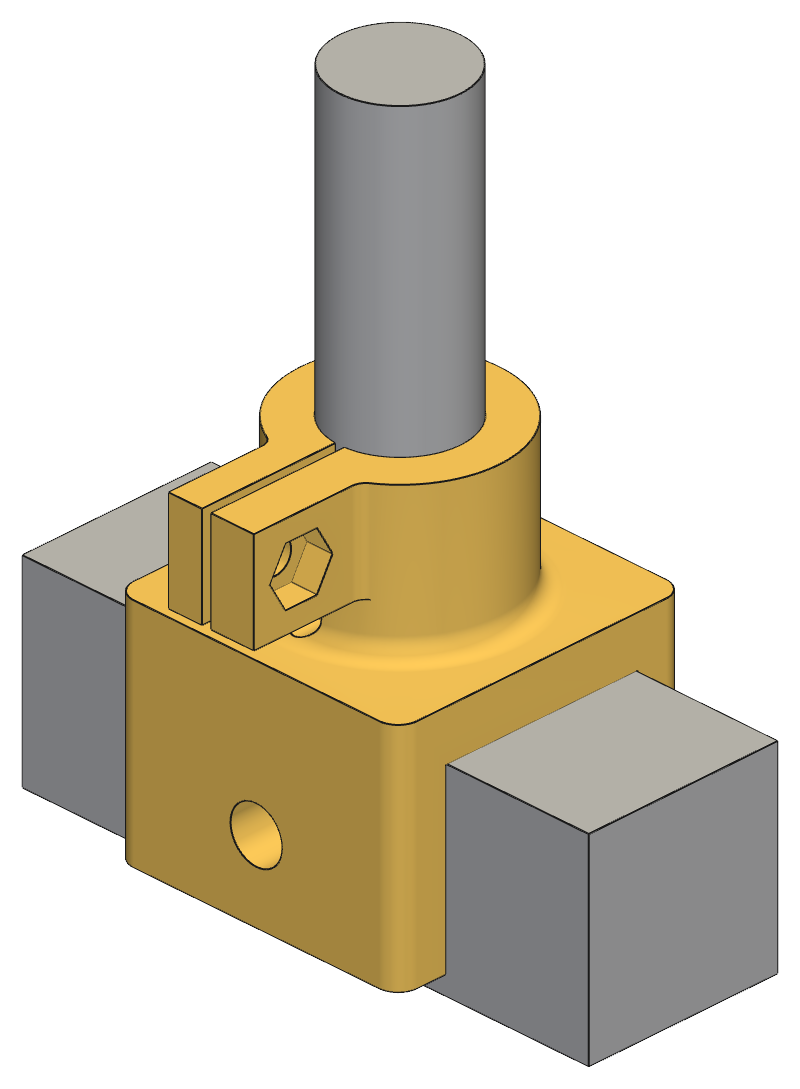
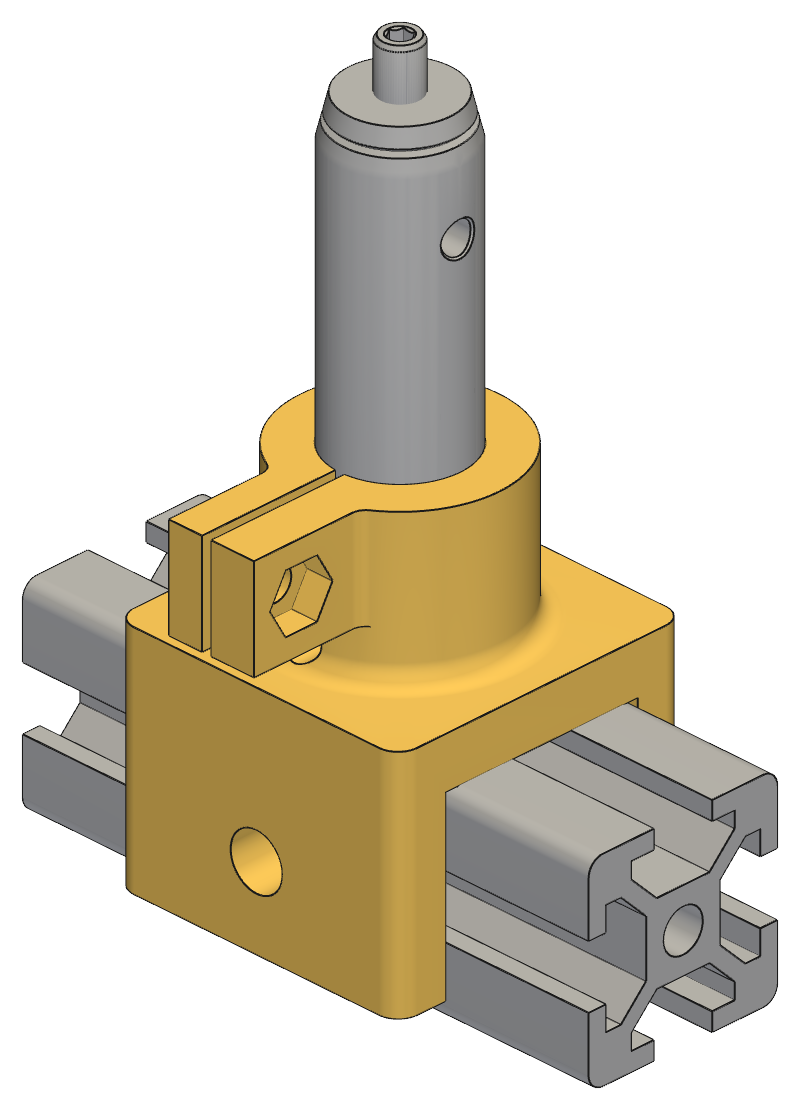
Improve rail shoe render

diff --git a/src/schlieren/parts/rail.py b/src/schlieren/parts/rail.py
@@ -1,0 +1,56 @@
+"""Generic 2020 T-slot rail for viewer assemblies and figures; design §4.1.
+
+Visualization only: the slot is a nominal slot-6 profile, not the measured geometry of the project's
+extrusion (§4.1), so do not take fits or clearances from it.
+
+Rail-assembly frame, as the rail shoe: x across the rail, y along it, z up; the rail top is z=0 and the rail
+is centered on x=y=0.
+"""
+
+from dataclasses import dataclass
+
+from build123d import Circle, Part, Polygon, Pos, Rectangle, Rot, extrude, fillet
+
+
+@dataclass(frozen=True)
+class RailProfile:
+    """Nominal 20-series, slot-6 section. Slot dimensions are measured inward from each outer face."""
+
+    size: float = 20.0
+    corner_radius: float = 1.5
+    slot_mouth_width: float = 6.2
+    lip_thickness: float = 1.8
+    cavity_width: float = 11.0
+    cavity_wall_height: float = 1.6  # Straight cavity wall below the lip, before the 45 degree taper.
+    slot_depth: float = 6.1
+    center_bore_diameter: float = 4.2
+
+    @property
+    def slot_floor_width(self) -> float:
+        taper_height = self.slot_depth - self.lip_thickness - self.cavity_wall_height
+        return self.cavity_width - 2 * taper_height
+
+
+def build_rail(length: float, profile: RailProfile | None = None) -> Part:
+    """A rail segment of the given length along y, top face at z=0."""
+    f = profile or RailProfile()
+    overrun = 1.0
+    face = f.size / 2
+
+    section = Rectangle(f.size, f.size)
+    section = fillet(section.vertices(), f.corner_radius)
+    # One slot, opening toward +y of the section; mirrored about its centerline and repeated on all four faces.
+    half_slot = [
+        (f.slot_mouth_width / 2, face + overrun),
+        (f.slot_mouth_width / 2, face - f.lip_thickness),
+        (f.cavity_width / 2, face - f.lip_thickness),
+        (f.cavity_width / 2, face - f.lip_thickness - f.cavity_wall_height),
+        (f.slot_floor_width / 2, face - f.slot_depth),
+    ]
+    slot = Polygon(*half_slot, *[(-x, y) for x, y in reversed(half_slot)], align=None)
+    for quarter_turn in range(4):
+        section -= Rot(Z=90 * quarter_turn) * slot
+    section -= Circle(f.center_bore_diameter / 2)
+
+    rail = extrude(section, amount=length / 2, both=True)
+    return Pos(0, 0, -face) * Rot(X=90) * rail

diff --git a/src/schlieren/parts/rail_shoe.py b/src/schlieren/parts/rail_shoe.py
@@ -24,6 +24,8 @@ from build123d import (
 )
 
 from schlieren.cad import FROM_CORNER, ON_FLOOR, along_x, along_y, assembly, labeled
+from schlieren.parts.rail import build_rail
+from schlieren.vendor_cad import thorlabs_tr50_m
 
 
 @dataclass(frozen=True)
@@ -145,6 +147,7 @@ class RailShoeParameters:
 
 SHOE_COLOR = (0.8, 0.65, 0.3)
 REFERENCE_COLOR = (0.6, 0.6, 0.6)
+VIEWER_RAIL_OVERHANG = 15.0  # Rail shown beyond each end of the shoe.
 
 
 def build_rail_shoe(p: RailShoeParameters | None = None) -> Part:
@@ -259,10 +262,11 @@ def build_rail_shoe(p: RailShoeParameters | None = None) -> Part:
 
 
 def reference_parts(p: RailShoeParameters | None = None) -> dict[str, Part]:
+    """Nominal envelopes of the parts the shoe must clear; the post is its exact metric nominal cylinder."""
     p = p or RailShoeParameters()
     return {
         "rail envelope": Pos(0, 0, -p.rail_height)
-        * Box(p.rail_width, p.length + 30, p.rail_height, align=ON_FLOOR),
+        * Box(p.rail_width, p.length + 2 * VIEWER_RAIL_OVERHANG, p.rail_height, align=ON_FLOOR),
         "datum disc": Cylinder(p.datum_disc_diameter / 2, p.datum_disc_thickness, align=ON_FLOOR),
         "TR50/M post envelope": Pos(0, 0, p.datum_disc_thickness)
         * Cylinder(p.post_diameter / 2, 50.0, align=ON_FLOOR),
@@ -270,13 +274,15 @@ def reference_parts(p: RailShoeParameters | None = None) -> dict[str, Part]:
 
 
 def viewer_assembly(shoe: Part, p: RailShoeParameters | None = None) -> Compound:
+    """Shoe on a generic 2020 rail segment, with the datum disc and the vendor TR50/M model seated on it."""
+    p = p or RailShoeParameters()
     refs = reference_parts(p)
     rparts = assembly(
         "Reference parts",
         [
-            labeled(refs["rail envelope"], "Rail", REFERENCE_COLOR),
+            labeled(build_rail(p.length + 2 * VIEWER_RAIL_OVERHANG), "Rail", REFERENCE_COLOR),
             labeled(refs["datum disc"], "Datum disc", REFERENCE_COLOR),
-            labeled(refs["TR50/M post envelope"], "TR50_M", REFERENCE_COLOR),
+            labeled(thorlabs_tr50_m(), "TR50_M", REFERENCE_COLOR, Pos(0, 0, p.datum_disc_thickness)),
         ],
     )
     return assembly("Rail shoe prototype", [labeled(shoe, "Shoe", SHOE_COLOR), rparts])

diff --git a/tests/test_rail.py b/tests/test_rail.py
@@ -1,0 +1,52 @@
+"""Shape checks for the generic 2020 rail used in viewer assemblies and figures."""
+
+import unittest
+
+from schlieren.parts.rail import RailProfile, build_rail
+
+LENGTH = 60.0
+
+
+class RailTests(unittest.TestCase):
+    @classmethod
+    def setUpClass(cls):
+        cls.f = RailProfile()
+        cls.rail = build_rail(LENGTH, cls.f)
+
+    def test_single_valid_solid_in_rail_assembly_frame(self):
+        self.assertTrue(self.rail.is_valid)
+        self.assertEqual(len(self.rail.solids()), 1)
+        box = self.rail.bounding_box()
+        for actual, expected in (
+            (box.min.X, -self.f.size / 2),
+            (box.max.X, self.f.size / 2),
+            (box.min.Y, -LENGTH / 2),
+            (box.max.Y, LENGTH / 2),
+            (box.min.Z, -self.f.size),
+            (box.max.Z, 0.0),
+        ):
+            self.assertAlmostEqual(actual, expected, places=5)
+
+    def test_t_slot_on_every_face_and_center_bore(self):
+        f = self.f
+        center_z = -f.size / 2
+        reach = f.size / 2
+        just_under_lip = reach - f.lip_thickness - 0.1
+        beside_mouth = (f.slot_mouth_width + f.cavity_width) / 4
+        for dx, dz in ((1, 0), (-1, 0), (0, 1), (0, -1)):
+            with self.subTest(face=(dx, dz)):
+                # Outward along the face normal (dx, dz); sideways along the face (dz, dx).
+                def point(out, side=0.0, dx=dx, dz=dz):
+                    return (dx * out + dz * side, 0, center_z + dz * out + dx * side)
+
+                self.assertFalse(self.rail.is_inside(point(reach - 0.1)))  # Slot mouth.
+                self.assertTrue(self.rail.is_inside(point(reach - 0.1, beside_mouth)))  # Lip.
+                self.assertFalse(
+                    self.rail.is_inside(point(just_under_lip, beside_mouth))
+                )  # Cavity under lip.
+                self.assertTrue(self.rail.is_inside(point(reach - f.slot_depth - 0.1)))  # Web below the slot.
+        self.assertFalse(self.rail.is_inside((0, 0, center_z)))
+
+
+if __name__ == "__main__":
+    unittest.main()

diff --git a/tests/test_rail_shoe.py b/tests/test_rail_shoe.py
@@ -9,6 +9,9 @@ from build123d import Cylinder, GeomType, Plane, RegularPolygon, extrude, sectio
 from schlieren.cad import ON_FLOOR, along_y
 from schlieren.parts.rail_shoe import RailShoeParameters, build_rail_shoe, reference_parts, viewer_assembly
 
+# The TR50/M STEP model is rounded to inches (0.499 in diameter), so it differs slightly from the nominal.
+TR50_MODEL_ROUNDING = 0.03
+
 
 def ear_x_end(p):
     """Ear tip x: ear_width beyond where the collar meets the inner ear face."""
@@ -111,6 +114,16 @@ class RailShoeTests(unittest.TestCase):
         self.assertEqual(
             [child.label for child in groups["Reference parts"].children], ["Rail", "Datum disc", "TR50_M"]
         )
+
+    def test_viewer_post_is_vendor_model_seated_on_datum_disc(self):
+        p = self.p
+        references = viewer_assembly(self.shoe, p).children[1]
+        post = {child.label: child for child in references.children}["TR50_M"]
+        body = max(post.solids(), key=lambda s: s.volume).bounding_box()  # Not the stud.
+        self.assertAlmostEqual(body.min.Z, p.datum_disc_thickness, places=5)
+        self.assertAlmostEqual(body.size.X, p.post_diameter, delta=TR50_MODEL_ROUNDING)
+        self.assertAlmostEqual(body.center().X, 0, places=5)
+        self.assertAlmostEqual(body.center().Y, 0, places=5)
 
 
 if __name__ == "__main__":

diff --git a/docs/design/05-post-support.md b/docs/design/05-post-support.md
@@ -15,10 +15,9 @@ Three fixtures use the common post/shoe architecture:
 
 ### 5.2 Optical-holder allocation
 
-- condenser: 1 × SMR1/M
+- LED/condenser/iris: 1 × SMR1/M
 - slit head: 1 × SM1RC/M, clamping the printed spigot of the slit-head adapter (§8.6)
 - cutoff carriage: 1 × SM1RC/M, clamping the printed spigot of the carriage base plate (§9.1)
-- LED source: no post of its own; the threaded LED module screws into the condenser SMR1/M
 
 The condenser/slit/cutoff holders preserve the 22.1 mm post-top-to-axis dimension.
 
@@ -49,7 +48,7 @@ The clamp provides rotational and lateral retention; post height is still establ
 bottoming on the metal datum disc. The model, with its fit-tested ABS allowances, is
 `src/schlieren/parts/rail_shoe.py`.
 
-![Common rail shoe on the rail and TR50/M post envelopes: saddle body, split clamping collar, and clamp ears with the captured-nut pocket](figures/rail-shoe.png)
+![Common rail shoe on the rail and TR50/M post: saddle body, split clamping collar, and clamp ears with the captured-nut pocket](figures/rail-shoe.png)
 
 #### Common printed split-clamp hardware
 

diff --git a/src/schlieren/parts/README.md b/src/schlieren/parts/README.md
@@ -74,8 +74,11 @@ uv run python -m unittest tests.test_rail_shoe -v
 The first command exports STEP and STL to ignored `exports/step` and
 `exports/stl` directories. `--show` also sends the assembly to the OCP CAD
 Viewer extension. Select the project's `.venv` interpreter in VS Code.
-The gray-box rail/post references are simplified envelopes, not fabrication
-models of purchased components. Only the shoe is exported. Toggle the `Post`
+The gray rail is the generic 2020 profile from `src/schlieren/parts/rail.py`
+(`build_rail(length)`, rail-top frame), a visualization model shared with any
+assembly that shows the post and shoe; it is a nominal slot-6 section, not the
+measured extrusion (§4.1). The datum disc is a simplified envelope, and the
+post is the Thorlabs TR50/M vendor model. Only the shoe is exported. Toggle the `Post`
 group in the viewer tree to hide/show the post independently of the shoe,
 rail, and datum disc. `--figure` renders the same assembly to
 `docs/design/figures/rail-shoe.png`, the §5.3 figure in the design document.
